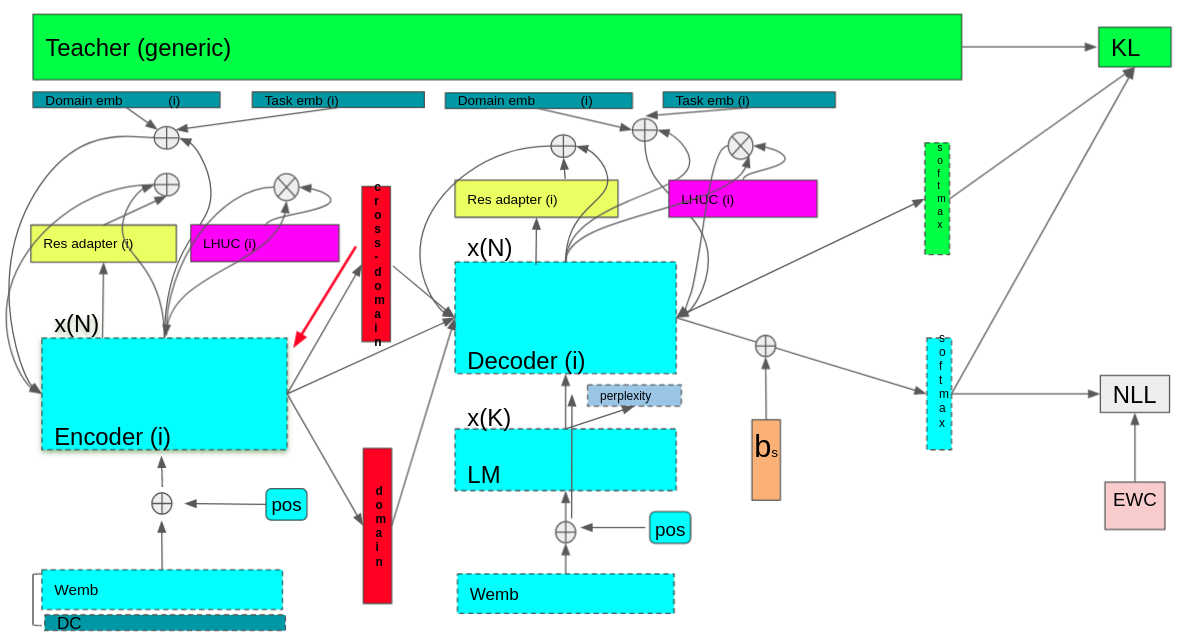
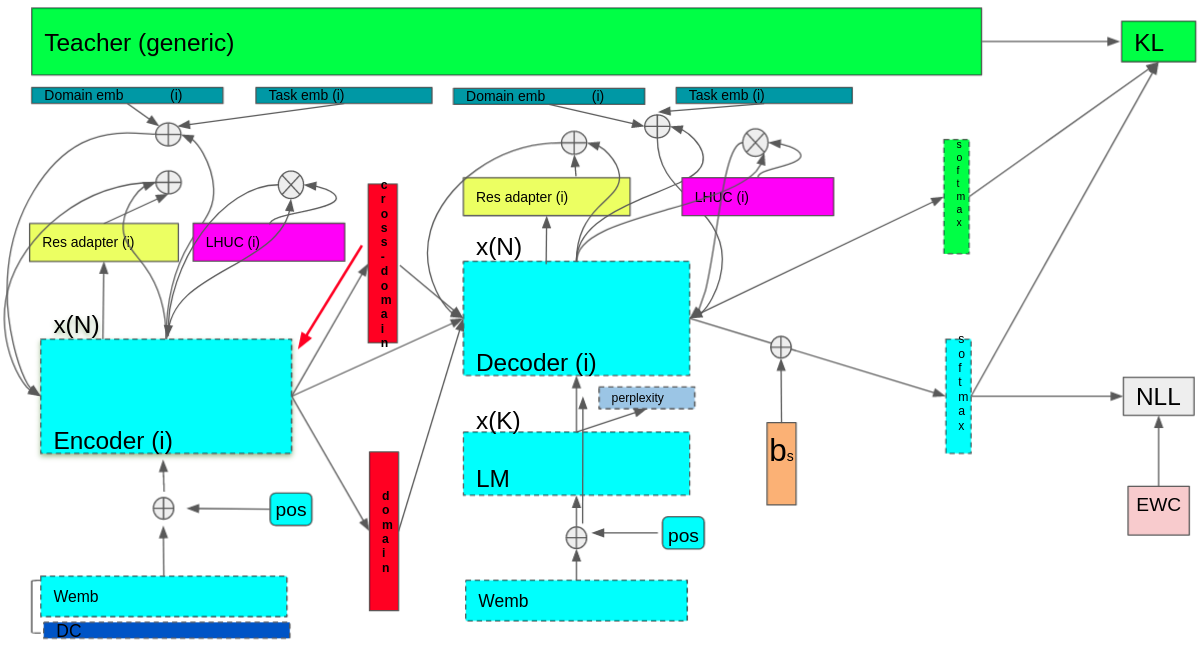
add graphics, add reference multihead selection

diff --git a/parts/introduction.tex b/parts/introduction.tex
@@ -1,10 +1,13 @@
 \chapter{Introduction}
 \section{Motivation}
-A neural machine translation (NMT\nomenclature[nmt]{NMT}{Neural machine translation}) model usually has trouble translating sentences that are less similar to the sentences used for training the model. This is a common limitation of the data-driven machine learning methods, whose performance is guaranteed by assuming that the training and testing distribution are identical. Therefore, to achieve high performance in a given domain, we must carefully tailor the NMT model to the domain. Moreover, in real applications, an MT engine has to translate text from many domains, whose genre and topic are highly variable, making the strategy "one specialized NMT model per domain" costly in computation and storage. This thesis aims to study the approaches to adapting an NMT system to many domains with a small computation and storage cost.
+A neural machine translation (NMT\nomenclature[nmt]{NMT}{Neural machine translation}) model usually has trouble translating sentences that are less similar to the sentences used for training the model. This is a common limitation of the data-driven machine learning methods, whose performance is guaranteed by assuming that the training and testing distribution are identical. Therefore, to achieve high performance in a given domain, we must carefully tailor the NMT model to the domain. The problem of tailoring an NMT model to a target domain is referred to as the domain adaptation problem. Two factors make this problem so complex, including the scarcity of training data from the target domain and the catastrophic forgetting problem of the deep models. The lack of training data effectively forces us to leverage non-related parallel data from other domains to train our NMT model as the neural network-based models need many data to optimize their parameters. Therefore, we usually have to adapt our NMT model to the target domain using lots of out-of-domain data with a small amount of data from the target domain. Secondly, several approaches to adapting an NMT model by finetuning it with the in-domain data only make the model's performance very brittle to the out-of-domain test. This problem is referred to as catastrophic forgetting in training neural networks. The neural models tend to perform dramatically worse in previous tasks after being trained to perform their current tasks. In real application, we aim to achieve the significant improvement in the performance in the target domain and the robustness of NMT models against previous training domains.
 
-The problem of tailoring an NMT model to a target domain is referred to as the domain adaptation problem. Two factors make this problem so complex, including the scarcity of training data from the target domain and the catastrophic forgetting problem of the deep models. The lack of training data effectively forces us to leverage non-related parallel data from other domains to train our NMT model as the neural network-based models need many data to optimize their parameters. Therefore, we usually have to adapt our NMT model to the target domain using lots of out-of-domain data with a small amount of data from the target domain. Secondly, several approaches to adapting an NMT model by finetuning it with the in-domain data only make the model's performance very brittle to the out-of-domain test. This problem is referred to as catastrophic forgetting in training neural networks. The neural models tend to perform dramatically worse in previous tasks after being trained to perform their current tasks. Despite the significant improvement in the performance in the target domain, the robustness of NMT models against previous training domains is always desirable.
+The domain problem is addressed by domain adaptation approaches as long as the testing domain is known before training. However, in many applications, such as online translation as Google Translate, the text to translate can be from any domain. We consider this situation "non domain-deterministic testing" in our review chapter(\ref{chap:mdmt-review}). In this situation, we could build domain-expert models for the source domains and combine their predictions during the inference \citep{Saunders19domain} to get a domain-adapted translation on-the-fly. Beside the mixture of model paradigm, several methods use context to improve the translation of similar sentences. However, these methods do not guarantee the domain robustness against out-of-domain text.
 
-The domain problem is addressed by domain adaptation approaches as long as the testing domain is known before training. However, in many applications, such as online translation as Google Translate, the text to translate can be from any domain. We consider this situation "non domain-deterministic" in our review chapter(\ref{chap:mdmt-review}). Non-domain-deterministic and domain robustness share a common goal is to scope with unfamiliar testing sentences. But non-domain-deterministic also aims to achieve higher translation quality in testing cases similar to the training data. According to our study on the domain-related problems in machine translation, this situation is not yet fully studied. Several methods use context to improve the translation of similar sentences but omit the domain robustness and vice versa.
+Moreover, in real applications, an MT engine has to translate text from many domains, whose genre and topic are highly variable, making the strategy "one specialized NMT model per domain" costly in computation and storage.  
+
+This thesis aims to provide a complete overview of multi-domain adaptation problem in machine translation and study the approaches to adapting an NMT system to many domains with a small computation and storage cost.
+
 \section{Contributions}
 In this thesis, our contributions are as follows.
 
@@ -21,4 +24,37 @@ Next, we improved the data sampling from the mix of in-domain corpora by replaci
 Finally, we proposed a novel method that incorporates similar translations to the context of the translation. Our approach largely improved the quality of the translation.
 
 \section{Outline}
+The structure of our thesis is as follows.
+
+The second chapter \ref{chap:nmt-review} is a review of neural machine translation. The chapter provides a basic knowledge in the text processing for neural machine translation systems, neural architectures for machine translation, the training procedure and the inference procedure of neural machine translation models.
+
+The third chapter \ref{chap:mdmt-review} reviews the literature of (multi-)domain adaptation in machine translation. We introduce 4 main sub-problems of (multi-)domain adaptation and provide an overview of the approaches for each sub-problem.
+
+The remainder of the thesis consists of our original work. Chapter \ref{chap:revisiting} proposes a novel multi-criteria evaluation of multi-domain machine translation systems. We reevaluated a large set of model-centric approaches using a relatively large collection of domains. Chapter \ref{chap:ldr} proposes a (multi-)domain NMT system with very low computation cost by using sparse word embedding, that zeros out a number of domain-specific units. Chapter \ref{chap:res} proposes several approaches to regularize the residual adapters \citep{Bapna19simple} in the (multi-)domain setting. In this chapter, we proposes two variants of the residual adapter, that allow to modularize the domain-agnostic and domain-specific encoding and to improve the performance of the adapted NMT model against out-of-domain examples. In chapter \ref{chap:mdac}, we study different dynamic sampling approaches for training NMT model in the (multi-)domain setting. We propose a novel method that automatically iteratively adapt the sampling distribution to any pre-determined testing distribution. Chapter \ref{chap:priming} proposes a novel method for non-domain-deterministic test sets by reusing similar translation memories.
+
+Finally, in chapter \ref{chap:conclusion}, we draw conclusions on the progress of each main problem in (multi-)domain adaptation machine translation. In addition, we propose a new direction to improve the domain-robustness of NMT systems.
+
+
+
+
+
+
+
+
+
+
+
+
+
+
+
+
+
+
+
+
+
+
+
+
 

diff --git a/parts/mdmt_review.tex b/parts/mdmt_review.tex
@@ -101,7 +101,9 @@ V_i^t &=& \sum_{j=1}^K V^tW_{i,j}^V*\mathit{D}_j(x_t),\\
 head_i &=& Attention \big( Q_i, K_i, V_i\big),
 \end{array}
 \end{equation}
-where the subscript $t$ indicates the position of the vector in the sequence of hidden representations, $\mathit{D}(x_t) \in \mathbb{R}^{K}$ is the domain proportion of the corresponding token $x_t$. The proportion of domains of a token is computed by a domain classifier, that take the input embedding of that token as input. The novel model adapt the hidden representation of a token to a domain to which the token likely belongs. Therefore, the model is able to discriminate domains in domain-specific tokens while transfering knowledge between domains in domain-agnostic tokens. However, the size of the model is proportional to the number of domains, which is not practical in the real applications. However, in our opinion, the idea can be applied to lightweight adapter or learning hidden unit contribution layer.
+where the subscript $t$ indicates the position of the vector in the sequence of hidden representations, $\mathit{D}(x_t) \in \mathbb{R}^{K}$ is the domain proportion of the corresponding token $x_t$. The proportion of domains of a token is computed by a domain classifier, that take the input embedding of that token as input. The novel model adapt the hidden representation of a token to a domain to which the token likely belongs. Therefore, the model is able to discriminate domains in domain-specific tokens while transferring knowledge between domains in domain-agnostic tokens. However, the size of the model is proportional to the number of domains, which is not practical in the real applications. The idea can be applied to lightweight adapter or learning hidden unit contribution layer.
+
+Recently, \citet{Gong21Pay} proposed learning domain-specific head selection from multi-head attention mechanism to mitigate the interference between domains/languages. The author used a variational NMT model with discrete latent variables $z^{(h)}_t$ from a Bernoulli distribution indicating whether task $t$ selects attention head $h$. The training jointly learns the NMT model and the inference networks $q_{\theta^{(h)}_t}(z)$ for the pairs of (task $t$, head $h$) by optimizing the evidence lower bound (ELBO) \cite{zhang16variational}.
 
 Besides the model-centric methods related to the architecture, multi-task training is another solution to the supervised (multi-)domain adaptation problem. 
 
@@ -115,8 +117,15 @@ We illustrate several well-known model-centric methods for the supervised domain
 \begin{subfigure}{1.0\textwidth}
   \centering
   \fbox{\begin{tabular}{ll}
-\textcolor{red}{$\blacksquare$} & \citep{Zeng18multidomain} \\
-\textcolor{violet}{$\blacksquare$} & \citep{Vilar18learning} \\
+ 
+\textcolor{darkcornflowerblue}{$\blacksquare$} & \citet{Kobus17domain} \\
+\textcolor{darkblue}{$\blacksquare$} & \citet{Dou19unsupervised} \\
+\textcolor{yellow}{$\blacksquare$} & \citet{Bapna19simple} \\
+\textcolor{red}{$\blacksquare$} & \citet{Zeng18multidomain} \\
+\textcolor{magenta}{$\blacksquare$} & \citet{Vilar18learning} \\
+\textcolor{green}{$\blacksquare$} & \citet{Dakwle17fine} \\
+\textcolor{lightorange}{$\blacksquare$} & \citet{Michel18extreme} \\
+\textcolor{lightred}{$\blacksquare$} & \citet{Brian19overcoming} \\
 \end{tabular}}
 \end{subfigure}
 \caption[Model-centric's brief overview]{Each color different from the bleu corresponds to one model-centric method. The bleu represents the NMT model.}
@@ -217,7 +226,7 @@ Besides well-known metrics for domain-relevance, \citet{Zhang19curriculum} propo
 \end{equation}
 where feature vector $\mathbf{F}(x,y)$ was extracted from the example, and weight vector $V$ was learned by Bayesian optimization. Each element of $\mathbf{F}(x,y)$ represented the relevance of the example to a target domain. Once the scorer was optimized, the training was conducted similarly as in \citet{Wees17dynamic,Wang19dynamically}.
 
-\section{Domain-deterministic training, non domain-deterministic testing}
+\section{Domain-deterministic training, non-domain-deterministic testing}
 \label{sec:case3}
 The third case is interesting because it resembles the real context of machine translation's applications. Effectively, the users' text can be from any possible topic or for any possible purpose (genre). In this situation, the NMT model needs to be both robust to the unseen domains and adapted to the known domains. 
 \subsection{Model-centric}
@@ -236,7 +245,7 @@ P(t|h_i,x) = \frac{P(h_i|t,x) P(t|x)}{\displaystyle{\mathop{\sum}_{k'} P(h_i|k',
 However, one might be more interested in domain robustness than domain specialization. The mixture model does not include the domain robustness in the training objective. \citet{Muller20domain} discussed several regularization methods to mitigate the problem, including subword regularization \citep{Taku18subword}, defensive distillation \citep{Papernot16distillation}, reconstruction \citep{Tu17neural} and neural noisy channel reranking \citep{Li16mutual}. Distributional robustness \citep{Oren19distributionally,BenTal13robust} is also a promising paradigm as the methods optimized learning models so that they perform well over a wide range of potential test distributions. However, the application of this paradigm to neural machine translation is not yet discovered.
 \subsection{Data-centric} \label{ssec:data-centric}
 Data-centric can not be applied to this situation as non domain-deterministic testing does not provide the domain of the test sentences. Effectively, data-centric requires the monolingual data of the target domain to create the pseudo in-domain data while the testing domain is non deterministic.
-\section{Non domain-deterministic training, non domain-deterministic testing}
+\section{Non-domain-deterministic training, non-domain-deterministic testing}
 \label{sec:case4}
 \subsection{Model-centric}
 \citet{Li18onesentence, Farajian17multidomain} proposed finetuning on-the-fly the pretrained model to a mini-batch similar to the source sentence before translating it. The authors chose the learning rate and the number of finetuning iterations according to the score of similarity between the mini-batch and the source sentence so that the higher similarity the higher the learning rate, the more iterations. \citet{Pham20Priming,xu20boosting,bulte19neural,bapna19non} proposed learning NMT model to reuse memory translations whose source sentence is similar to the source sentence. 
@@ -244,6 +253,7 @@ Data-centric can not be applied to this situation as non domain-deterministic te
 The data-centric paradigm can not be applied to this situation for the same reason as the previous section \ref{ssec:data-centric}
 
 \section{Multi-domain and multi-lingual machine translation}
+We can put multi-domain and multi-lingual machine translation under the same umbrella of multi-task learning where a task is one language pair or one domain. Most of the model-centric approaches can be applied to both of these task. For example, the target-language prefix token used in one-to-many multilingual NMT model \citep{Aharoni19massively,Johnson17google} has a similar role as the domain tag used in multi-domain NMT \citep{Kobus17domain}. \citet{Bapna19simple} used the residual adapters for both domain-adaptation and multilingual NMT. Multi-domain NMT and multi-lingual NMT aim to improve the quality of low-resourced domain/language by exploiting the proximity between the low-resourced target domain/language and the high-resourced domains/languages. \citet{Gong21Pay} learned domain/language-specific head selection to improve the multi-domain/multi-lingual NMT system.
 
 
 

diff --git a/parts/nmt_review.tex b/parts/nmt_review.tex
@@ -1,4 +1,5 @@
-\chapter{Neural Machine Translation’s review}
+\chapter{A review of Neural Machine Translation}
+\label{chap:nmt-review}
 In this chapter, we would like to briefly review some basic knowledge of Neural Machine Translation (NMT) which provides the foundation for the experiments of this thesis. Neural Machine Translation was first introduced in 2014 via the work of \citet{Bahdanau15learning,Cho14properties}. Since then, NMT has been largely developed and outperformed old approaches, including Rule-based Machine Translation (RBMT\nomenclature[rbmt]{RBMT}{Rule-based Machine Translation}) and Statistical Machine Translation (SMT) in high-resource languages such as English-French, English-German.
 
 Building a Neural Machine Translation model consists of 3 basic steps, including text tokenization \ref{sec:tokenization}, training NMT model with pairs of tokenized source and target sentences \ref{sec:train} and decoding or translating \ref{sec:inference}. In the first step, each sentence is transformed into a sequence of tokens, which can be words, sub-words, or characters \ref{sec:preprocessing}. These sequences of tokens will be transformed into sequences of integers. In the second step, given a choice of neural architecture \ref{sec:rrn}, \ref{sec:cnn} or \ref{sec:transformer}; the parameters of the NMT model are optimized according to a training objective \ref{sec:train}. The input of the NMT model during the training consists of a pair of sequences of integers corresponding to a pair of source and target sentences. In the final step, when the NMT model is learned, given any sentence in the source language, the NMT model generates a translation via a decoding algorithm \ref{sec:inference} such as beam search \citep{Koehn04pharaoh}. In the inference step, the input of the NMT model is only the sequence of integers corresponding to the source sentence.

diff --git a/parts/ldr.tex b/parts/ldr.tex
@@ -1,4 +1,5 @@
 \chapter{Lexicalized domain representation}
+\label{chap:ldr}
 \textit{This chapter draws from the following publications: \citet{Pham19generic}}
 \section{Motivation}
   We study here \emph{supervised multi-domain adaptation} setting \ref{sec:case1}, where the number of domains is potentially large and adapting separately to each domain would waste training resources. Our proposal transposes to neural machine translation the feature expansion technique of (Daum\'e III, 2007): it isolates domain-agnostic from domain-specific lexical representations, while sharing the most of the network across domains.
@@ -395,7 +396,7 @@ Let us first consider the full words in the left column of Table~\ref{tab:embedd
 
 Let us now consider the list of putative monosemic words (on the right part of Table~\ref{tab:embeddings}), ie.\ words for which the nearest neighbors are the same in all domains. This list contains mostly words for which we do not expect much variation in translation: adjectives (``previous'', ``better''), adverbs (``virtually``), generic verbs (``handling'', ``coordinated''). Further down this list, we will also find prepositions (``at'', ``in''), auxiliary (``been'') etc.  
 
-\section{Conclusions}
+\section{Conclusions and outlook}
 In this chapter, we have presented a new technique for multi-domain machine translation,  adapting the ``frustratingly easy'' idea of \citet{Daume07frustratingly} to two standard NMT architectures. 
 Our experiments have shown that for both architectures and for two language pairs, our multi-domain models improve over several baselines of the literature and that it is robust to noise in domain labels. 
 It is noticeable that these results are obtained without impacting the architecture or training complexity

diff --git a/parts/mdmt_res.tex b/parts/mdmt_res.tex
@@ -1,4 +1,5 @@
 \chapter{Multi-domain residual adapters}
+\label{chap:res}
 \textit{This chapter draws from the following publications: \citet{Pham20Study}}
 \section{Motivation}
 In \emph{supervised multi-domain adaptation} \ref{sec:case1}, the most common and successful approach to supervised adaptation is to fine-tune a baseline system with in-domain parallel data. Standard fine-tuning however modifies all the network parameters, which makes this approach computationally costly and prone to overfitting. Several recent studies (e.g.\ \citep{Vilar18learning,Wuebker18compact,Michel18extreme,Bapna19simple}) have proposed more lightweight schemes to perform domain adaptation, while also preserving  the value of pre-trained models. Our main inspiration is the latter work, whose proposal relies on small \emph{adapter components} that are plugged in each hidden layer. These adapters are trained only with the in-domain data, keeping the pre-trained model frozen. Because these additional adapters are very small compared to the size of the baseline model, their use significantly reduces the cost of training and maintaining fine-tuned models, while delivering a performance that remains close to that of full fine-tuning.

diff --git a/parts/conclusion.tex b/parts/conclusion.tex
@@ -1,0 +1,16 @@
+\chapter{Conclusions}
+\label{chap:conclusion}
+This thesis proposed a unified framework which describes multiple main problems in (multi-)domain adaptation. Furthermore, we presented several novel methods for supervised (multi-)domain adaptation problem and non-domain-deterministic testing. We have showed the limitation of model-centric approaches in 
+supervised (multi-)domain adaptation problem according to our novel multi-domain evaluation method. Unfortunately, by the limit of time, we have not explored the non-domain-deterministic training setting.
+
+Among the four main problems of (multi-)domain adaptation \ref{chap:mdmt_review}, supervised (multi-)domain adaptation is the most studied. However, we showed that most of the previous methods are brittle to fuzzy domain separations and the continuous learning.  
+
+\section{Supervised (multi-)domain adaptation}
+
+\section{Non-domain-deterministic training, domain-deterministic testing}
+
+\section{Domain-deterministic training, non-domain-deterministic testing}
+
+\section{Non-domain-deterministic training, non-domain-deterministic testing}
+
+\section{Future works}

diff --git a/parts/priming.tex b/parts/priming.tex
@@ -1,4 +1,5 @@
 \chapter{Priming neural machine translation}
+\label{chap:priming}
 \section{Motivation}
 Priming is a well known and studied psychology phenomenon based on the prior presentation of one stimulus (cue) to influence the processing of a response. 
 In this paper, we propose a framework to mimic the process of priming in the context of neural machine translation (NMT). 
@@ -572,7 +573,7 @@ In~\citet{xu19lexical} the model is dynamically adapted to a entire test set to 
 
 In computer vision, priming network has been recently studied. For the object detection task , \citet{Rosenfeld18Priming} primed the network via an external information that affects all the processing layers. Upon processing each image in the network, \citet{Rosenfeld18Priming} also presented the network with the category of the object in the image; this information is injected at all layers. \fyDone{Style}
 
-\section{Conclusions}
+\section{Conclusions and outlook}
 \label{sec:conclusions}
 
 Inspired by the human psychological phenomenon of priming, we have presented a simple framework for priming NMT networks.

diff --git a/thesis.tex b/thesis.tex
@@ -203,6 +203,11 @@
 \newcommand{\sbcl}[2]{{\scriptsize #1 \hfill $|$ \hfill  #2}}
 \usepackage{multirow}
 
+%Color command
+\definecolor{darkblue}{rgb}{0.0, 0.592, 0.655}
+\definecolor{darkcornflowerblue}{rgb}{0.149, 0.2588, 0.5451}
+\definecolor{lightorange}{rgb}{0.9961, 0.8471, 0.6941}
+\definecolor{lightred}{rgb}{1.0, 0.80, 0.7961}
 %%%%%%%%%%%%%%%%%%%%%%%%%%%%%%%%%%%%%%%%%%%%%%%%
 
 \newcommand\blankpage{%
@@ -255,12 +260,13 @@
 	\input{parts/mdmt_res.tex}
 	\input{parts/mdac.tex}
 	\input{parts/priming.tex}
+	\input{parts/conclusion.tex}
 \clearpage{}
 {\linespread{0.7}\selectfont\bibliography{bibliography}}
 \bibliographystyle{apa-good}
 \clearpage{}
 
-\section*{Appendices}
+\chapter*{Appendix}
 
 \subsection*{A - Description of multi-domain systems \label{ssec:implementation-details} (Chapter \ref{chap:revisiting})}
 
